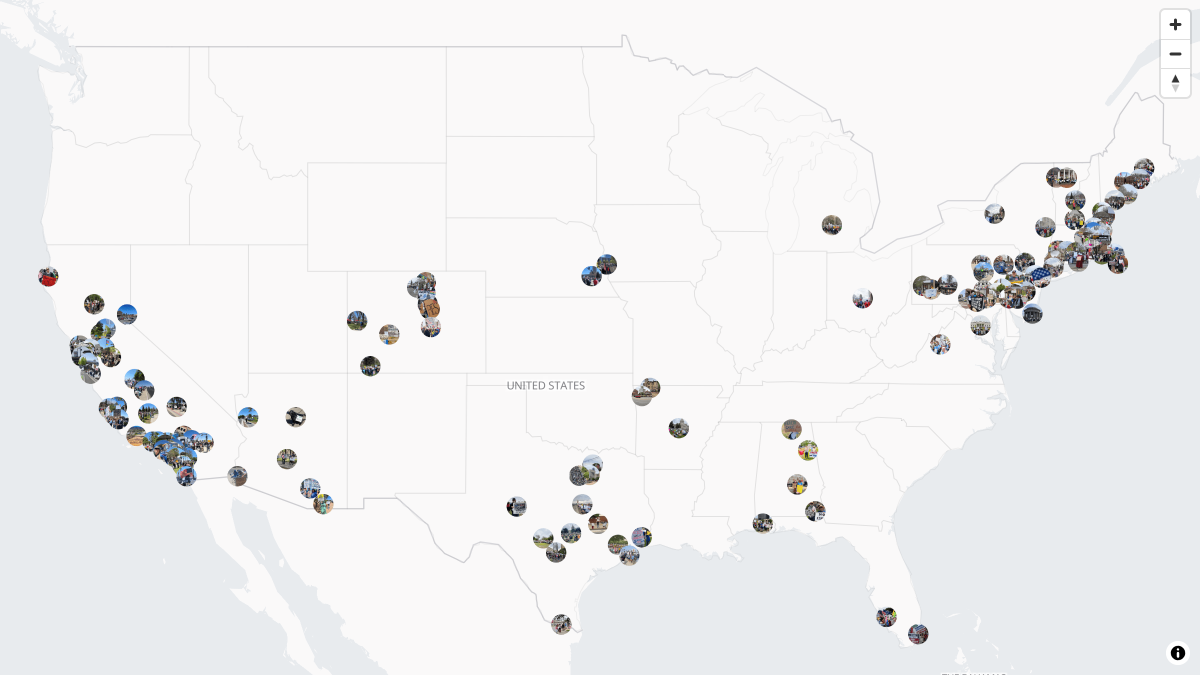
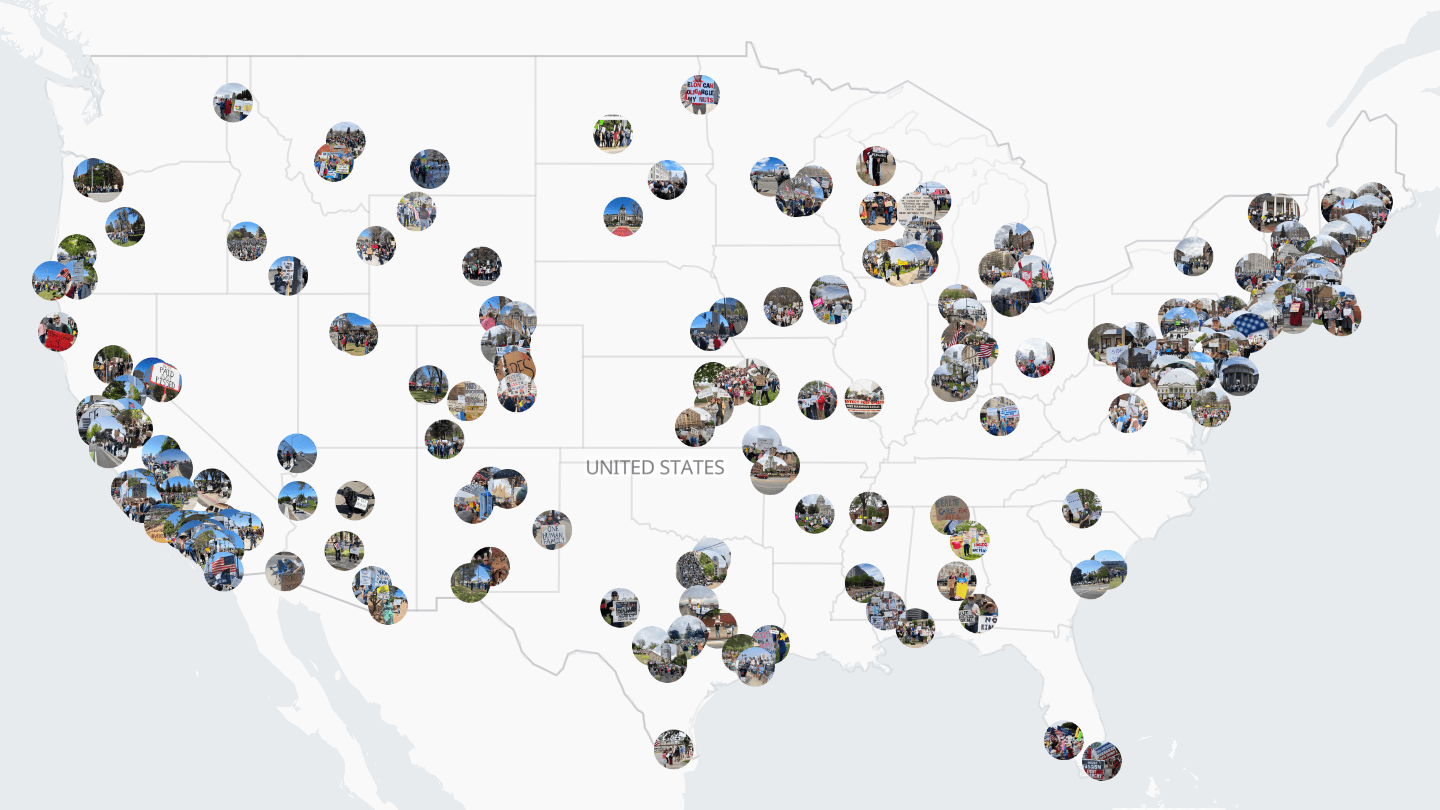
increase preview scale

diff --git a/src/screenshot.ts b/src/screenshot.ts
@@ -5,13 +5,13 @@ const cp = new Deno.Command('deno', { args: ['task', 'dev'] }).spawn();
 
 await wait(1);
 
-const width = 1200;
-const height = 675;
+const width = 720;
+const height = 405;
 
 const browser = await firefox.launch();
 const context = await browser.newContext({
 	colorScheme: 'light',
-	deviceScaleFactor: 1,
+	deviceScaleFactor: 2,
 	locale: 'de-DE',
 	viewport: { width, height },
 });
